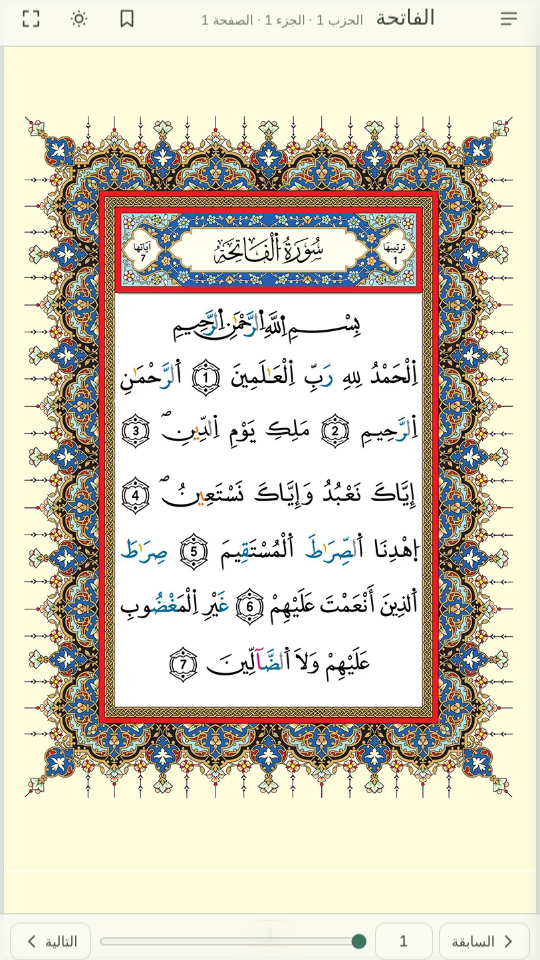
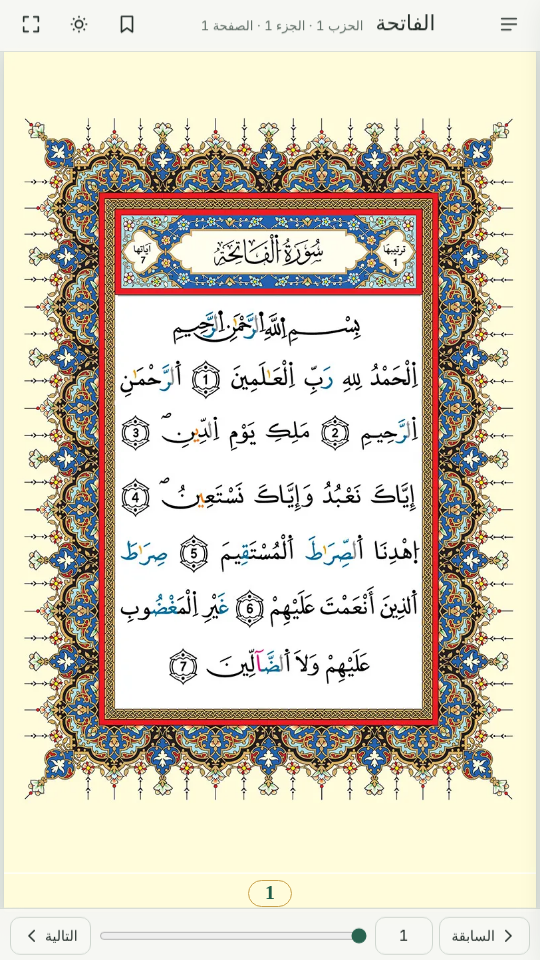
Add a fill-screen page size option
Display settings now offer «ملاءمة الصفحة» (original proportions) or «ملء الشاشة» (page stretched over the whole screen, Z key). Fit mode also now sizes the page box to the image, so the page number sits right under the text instead of at the screen edge.

Claude-Session: https://claude.ai/code/session_016P4nmm3uinSdpAbEJH42wX

diff --git a/index.html b/index.html
@@ -48,15 +48,21 @@ button{cursor:pointer}
 :focus-visible{outline:2px solid var(--accent);outline-offset:2px}
 
 /* the page */
-.stage{position:fixed;inset:0;display:flex;align-items:center;justify-content:center;
+.stage{position:fixed;inset:0;display:flex;align-items:center;justify-content:center;container-type:size;
   padding:max(4px,env(safe-area-inset-top,0px)) max(4px,env(safe-area-inset-right,0px)) max(4px,env(safe-area-inset-bottom,0px)) max(4px,env(safe-area-inset-left,0px));touch-action:pan-y pinch-zoom}
 .spread{height:100%;max-width:100%;display:flex;flex-direction:row;justify-content:center;align-items:center;transition:transform .2s ease,opacity .2s ease}
 .spread.out-l{transform:translateX(-20px);opacity:0}.spread.out-r{transform:translateX(20px);opacity:0}
-.pg{height:100%;aspect-ratio:600/975;max-width:100%;background:#fffcdb;box-shadow:var(--shadow);overflow:hidden;border-radius:3px;
+.pg{width:min(100cqw,100cqh*600/975);aspect-ratio:600/975;background:#fffcdb;box-shadow:var(--shadow);overflow:hidden;border-radius:3px;
   display:flex;flex-direction:column;container-type:size;position:relative}
-.spread.two .pg{max-width:50%}
+.spread.two .pg{width:min(50cqw,100cqh*600/975)}
 .spread.two .pg:first-child{border-radius:0 3px 3px 0}
 .spread.two .pg:last-child{border-radius:3px 0 0 3px}
+/* fill mode: the page is stretched to the whole screen instead of keeping its proportions */
+:root[data-fit="fill"] .stage{padding:env(safe-area-inset-top,0px) env(safe-area-inset-right,0px) env(safe-area-inset-bottom,0px) env(safe-area-inset-left,0px)}
+:root[data-fit="fill"] .spread{width:100%}
+:root[data-fit="fill"] .pg{aspect-ratio:auto;width:100cqw;height:100cqh;border-radius:0;box-shadow:none}
+:root[data-fit="fill"] .spread.two .pg{width:50cqw;border-radius:0}
+:root[data-fit="fill"] .pg img{object-fit:fill}
 .pg img{display:block;width:100%;flex:1 1 0;min-height:0;object-fit:contain;-webkit-user-drag:none;pointer-events:none;
   filter:brightness(var(--dim,1));transition:filter .25s ease}
 /* reading tones: warm softens the white, night inverts the page and keeps the tajweed colours readable */
@@ -213,6 +219,10 @@ kbd{font:11px var(--f-ui);border:1px solid var(--line);border-bottom-width:2px;b
     <div class="seg" id="toneSeg" role="group" aria-label="وضع القراءة">
       <button data-tone="day">نهاري</button><button data-tone="warm">دافئ</button><button data-tone="night">ليلي</button>
     </div>
+    <div class="seg" id="fitSeg" role="group" aria-label="حجم الصفحة">
+      <button data-fit="fit">ملاءمة الصفحة</button><button data-fit="fill">ملء الشاشة</button>
+    </div>
+    <div class="gomsg" id="fitNote"></div>
     <label class="dim">السطوع <input type="range" id="dimRange" min="50" max="100" value="100" aria-label="سطوع الصفحة"> </label>
     <div class="row2"><span>إبقاء الشاشة مضاءة<small>أثناء القراءة</small></span><button class="pill" id="wakeBtn" aria-pressed="true">مفعّل</button></div>
     <div class="row2"><span>اتجاه الشاشة<small id="oriNote">تدوير حر</small></span><button class="pill" id="oriBtn">تلقائي</button></div>
@@ -223,7 +233,7 @@ kbd{font:11px var(--f-ui);border:1px solid var(--line);border-bottom-width:2px;b
   </div>
   <div class="foot">
     اضغط على جانبَي الصفحة لتقليبها، وعلى وسطها لإظهار الأزرار أو إخفائها.
-    <br><kbd>←</kbd> <kbd>→</kbd> تقليب · <kbd>F</kbd> ملء الشاشة · <kbd>B</kbd> علامة · <kbd>I</kbd> الفهرس · <kbd>N</kbd> وضع القراءة
+    <br><kbd>←</kbd> <kbd>→</kbd> تقليب · <kbd>F</kbd> ملء الشاشة · <kbd>B</kbd> علامة · <kbd>I</kbd> الفهرس · <kbd>N</kbd> وضع القراءة · <kbd>Z</kbd> ملء الشاشة بالصفحة
     <br>صور الصفحات: مصحف التجويد برواية ورش، <span dir="ltr">easyquran-eg.com</span>
   </div>
 </aside>
@@ -422,6 +432,12 @@ function setTone(t, quiet){
 function cycleTone(){ setTone(TONES[(TONES.indexOf(root.dataset.tone)+1)%TONES.length]); }
 $('themeBtn').onclick=cycleTone;
 Array.prototype.forEach.call($('toneSeg').children, function(b){ b.onclick=function(){ setTone(b.dataset.tone); }; });
+function setFit(f){
+  f = f==='fill' ? 'fill' : 'fit'; root.dataset.fit=f; store.set('fit',f);
+  Array.prototype.forEach.call($('fitSeg').children, function(b){ b.setAttribute('aria-pressed', String(b.dataset.fit===f)); });
+  $('fitNote').textContent = f==='fill' ? 'تُمدَّد الصفحة لتملأ الشاشة، فيبدو الخط أطول من أصله.' : 'تظهر الصفحة بأبعادها الأصلية.';
+}
+Array.prototype.forEach.call($('fitSeg').children, function(b){ b.onclick=function(){ setFit(b.dataset.fit); }; });
 function setDim(v){ v=Math.max(50,Math.min(100,+v||100)); root.style.setProperty('--dim', v/100); $('dimRange').value=v; store.set('dim',v); }
 $('dimRange').oninput=function(){ setDim(this.value); };
 
@@ -507,6 +523,7 @@ document.addEventListener('keydown', function(e){
   else if(k==='home'){ go(1); } else if(k==='end'){ go(N); }
   else if(k==='f'){ toggleFs(); }
   else if(k==='n'){ cycleTone(); showUI(); }
+  else if(k==='z'){ setFit(root.dataset.fit==='fill'?'fit':'fill'); toast(root.dataset.fit==='fill'?'ملء الشاشة':'ملاءمة الصفحة'); }
   else if(k==='b'){ toggleBookmark(); showUI(); }
   else if(k==='i'||k==='/'){ e.preventDefault(); openIndex(); }
 });
@@ -515,7 +532,7 @@ var rz; addEventListener('resize', function(){ clearTimeout(rz); rz=setTimeout(f
 /* ---------- start ---------- */
 (function(){
   var t=store.get('tone',null); if(!t) t = matchMedia('(prefers-color-scheme: dark)').matches ? 'night' : 'day';
-  setTone(t,true); setDim(store.get('dim',100)); oriApply();
+  setTone(t,true); setFit(store.get('fit','fit')); setDim(store.get('dim',100)); oriApply();
   var q=new URLSearchParams(location.search), qp=parseInt(q.get('page'),10);
   go(qp>=1 ? qp : store.get('page',1), true);
   if(q.get('open')==='bookmarks'){ openIndex(); setTimeout(function(){ $('bmList').scrollIntoView(); },300); }

diff --git a/sw.js b/sw.js
@@ -1,5 +1,5 @@
 // Shell is versioned (bump SHELL to ship an update); page images live in their own cache and survive shell updates.
-const SHELL = 'warsh-shell-v6';
+const SHELL = 'warsh-shell-v7';
 const PAGE_CACHE = 'warsh-pages-v1';
 const ASSETS = ['./', './index.html', './manifest.webmanifest', './icons/icon-192.png', './icons/icon-512.png', './icons/icon-maskable-192.png', './icons/icon-maskable-512.png', './icons/icon-monochrome-512.png', './icons/apple-touch-icon.png', './icons/favicon-32.png'];
 

diff --git a/README.md b/README.md
@@ -14,6 +14,7 @@
 - صور الصفحات ملفات مستقلة في مجلد `pages/` (حجم الصفحة الرئيسية نحو 38 كيلوبايت).
 - القراءة دون اتصال اختيارية (متوقفة افتراضياً): عند تفعيلها من الفهرس تُحفظ جميع الصفحات على الجهاز (نحو 8 ميغابايت)، وعند إيقافها تُحذف.
 - أوضاع القراءة: نهاري، دافئ، ليلي، مع شريط للتحكم في السطوع (المفتاح `N` يبدّل الوضع).
+- حجم الصفحة: «ملاءمة الصفحة» بأبعادها الأصلية، أو «ملء الشاشة» لتمديد الصفحة على الشاشة كلها (المفتاح `Z`).
 - تنبيه عند توفر إصدار جديد (لإصدار تحديث غيّر قيمة `SHELL` في `sw.js`).
 - زر للتثبيت، واختصارات على أيقونة التطبيق (سورة الفاتحة، سورة البقرة، العلامات)، وإبقاء الشاشة مضاءة، وتثبيت اتجاه الشاشة.
 
